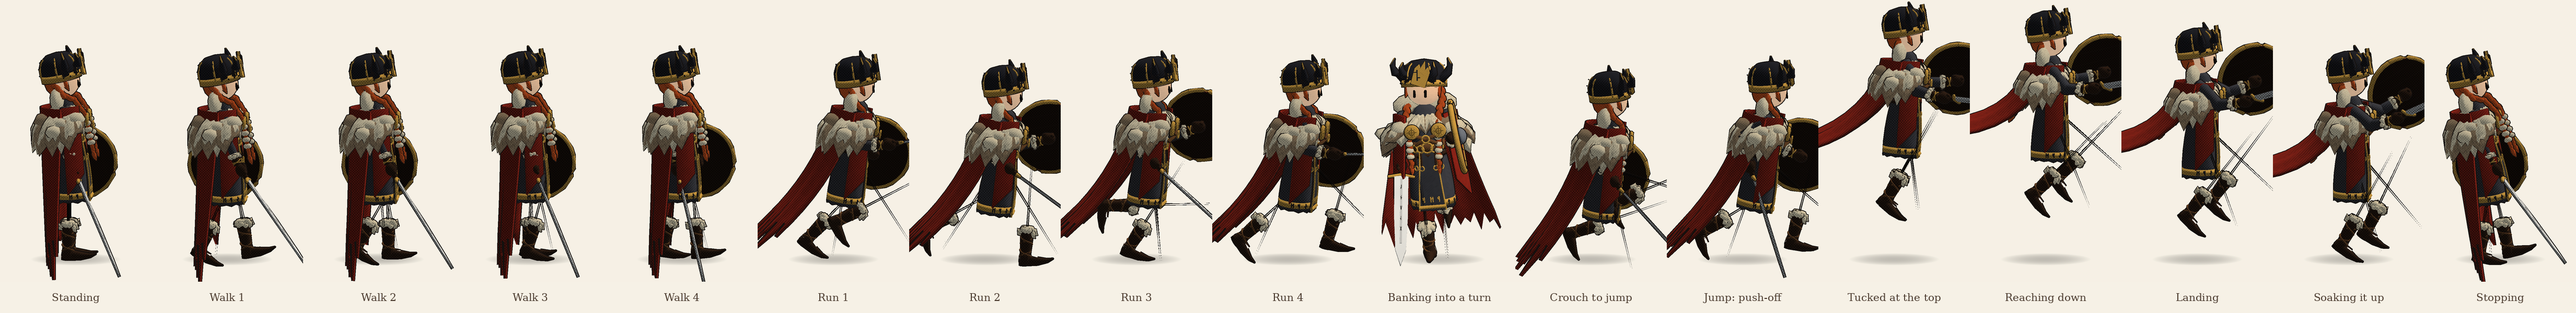
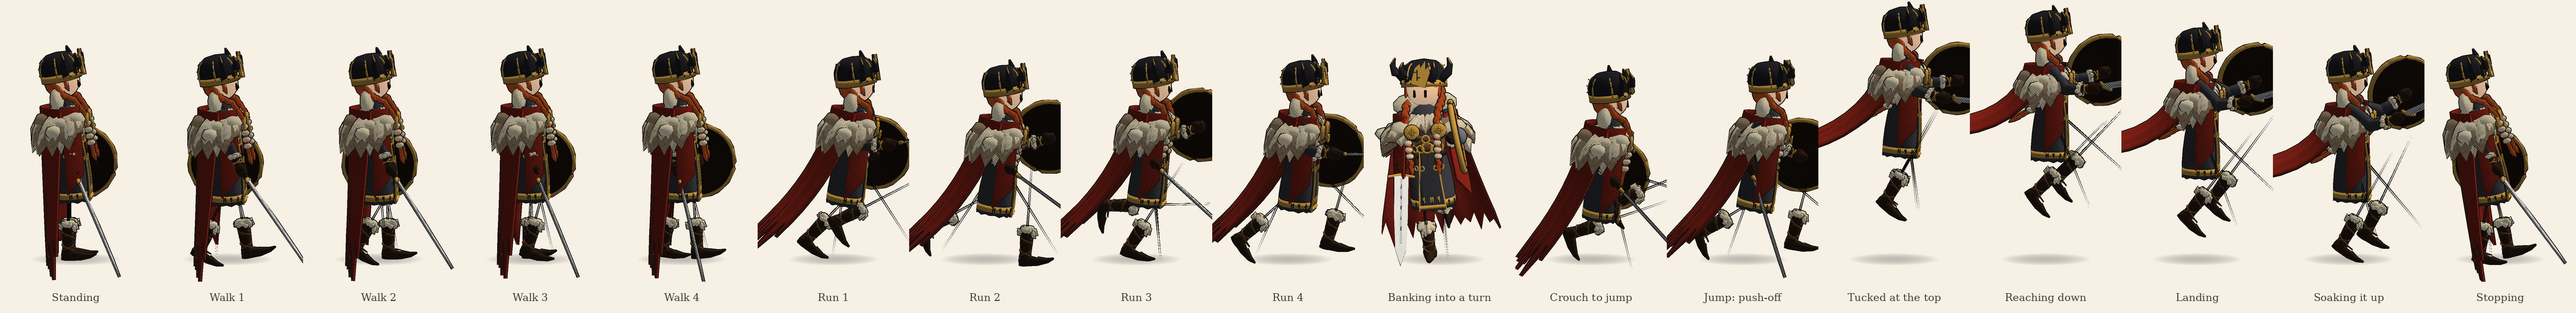
Braids bend like capes, curving from the head instead of swinging stiffly
Claude-Session: https://claude.ai/code/session_01SCdejJ1UF8RUxAkkFhZXGU

diff --git a/tools/preview/HeroPreview.cs b/tools/preview/HeroPreview.cs
@@ -16,7 +16,7 @@ public static class HeroPreview
         public Dictionary<string, Vector3> pos = new Dictionary<string, Vector3>();
         /// <summary>Joints whose world orientation is set directly (props held at an exact angle).</summary>
         public Dictionary<string, Quaternion> worldRot = new Dictionary<string, Quaternion>();
-        /// <summary>Capes bent by a swing (pitch, roll in degrees), as the game's ClothSway bends them.</summary>
+        /// <summary>Capes and braids bent by a swing (pitch, roll in degrees), as the game's ClothSway bends them.</summary>
         public Dictionary<string, Vector2> bend = new Dictionary<string, Vector2>();
     }
 
@@ -262,8 +262,8 @@ public static class HeroPreview
     static void MotionStrip(string rgbaPath, string labelPath, VikingModel model)
     {
         var springs = new Dictionary<string, SwingSpring>();
-        var capes = new HashSet<string>();
-        foreach (var sw in model.Swings) { springs[sw.joint] = SwingSpring.For(sw.kind); if (sw.kind == SwingKind.Cape) capes.Add(sw.joint); }
+        var bent = new HashSet<string>();
+        foreach (var sw in model.Swings) { springs[sw.joint] = SwingSpring.For(sw.kind); if (sw.kind != SwingKind.Banner) bent.Add(sw.joint); }
         var frames = new List<Shot>();
         var captures = new[] { 0.2f, 1.30f, 1.39f, 1.48f, 1.57f, 2.40f, 2.47f, 2.54f, 2.61f, 2.9f, 3.14f, 3.2f, 3.38f, 3.56f, 3.66f, 3.76f, 4.9f };
         var names = new[] { "Standing", "Walk 1", "Walk 2", "Walk 3", "Walk 4", "Run 1", "Run 2", "Run 3", "Run 4", "Banking into a turn",
@@ -300,9 +300,9 @@ public static class HeroPreview
             if (t >= captures[next])
             {
                 var pose = FromAnimator(anim.pose);
-                // Capes bend (as in the game), the rest swing stiffly.
+                // Capes and braids bend (as in the game), banners swing stiffly.
                 foreach (var kv in springs)
-                    if (capes.Contains(kv.Key)) pose.bend[kv.Key] = new Vector2(kv.Value.pitch, kv.Value.roll);
+                    if (bent.Contains(kv.Key)) pose.bend[kv.Key] = new Vector2(kv.Value.pitch, kv.Value.roll);
                     else pose.rot[kv.Key] = kv.Value.Rotation;
                 // (The jump is drawn at half height so the whole hero stays in the frame.)
                 pose.pos[Joints.Body] += new Vector3(0f, y * 0.5f, 0f);

diff --git a/OdinsCoin/Assets/Scripts/Characters/ClothSway.cs b/OdinsCoin/Assets/Scripts/Characters/ClothSway.cs
@@ -141,7 +141,7 @@ namespace OdinsCoin
             public Vector3 lastPos, lastVel;
             public bool primed;
             public float phase;
-            // A cape's meshes, bent rather than turned (see ClothBend); null for things that swing stiffly.
+            // A cape's or braid's meshes, bent rather than turned (see ClothBend); null for things that swing stiffly.
             public List<Bendable> bends;
             public float length;
         }
@@ -159,8 +159,9 @@ namespace OdinsCoin
         public void Add(Transform joint, SwingKind kind)
         {
             var e = new Entry { joint = joint, spring = SwingSpring.For(kind), phase = (made++) * 2.1f + joint.name.Length * 0.37f };
-            // Capes bend: keep each of their meshes' rest shape (in the joint's space: the pieces sit on it untransformed).
-            if (kind == SwingKind.Cape)
+            // Capes and braids bend: keep each of their meshes' rest shape (in the joint's space: the pieces sit on it
+            // untransformed). Banners stand out sideways from their pole, so they swing stiffly.
+            if (kind == SwingKind.Cape || kind == SwingKind.Braid)
             {
                 e.bends = new List<Bendable>();
                 foreach (var mf in joint.GetComponentsInChildren<MeshFilter>(true))

diff --git a/OdinsCoin/CHARACTERS.md b/OdinsCoin/CHARACTERS.md
@@ -103,7 +103,7 @@ Alt bygges i kode (ingen modellfiler trengs). `tools/preview/render.sh` tegner e
     - **Spydvakt:** knuten på skjoldet er malt med brede, lyse bånd med mørk kant, og pelskragen er bredere.
     - **Seer:** slankere og høyere, kjortelen faller rett ned, og fargen er skifergrå.
     - **Speider:** den grønne kappa er bredere over skuldrene, og pilene har smale, spisse fjær.
-- [x] **9. Bevegelse i plaggene:** (se [docs/motion.png](docs/motion.png)) kapper, skjørt, fletter, pels og vimpler svinger og henger etter når figuren går, snur og hugger (enkel fysikk med fjærer). Kapper bøyer seg i stedet for å svinge som en stiv planke: toppen blir liggende på skuldrene, og jo lenger ned, jo mer blafrer stoffet (`ClothBend`).
+- [x] **9. Bevegelse i plaggene:** (se [docs/motion.png](docs/motion.png)) kapper, skjørt, fletter, pels og vimpler svinger og henger etter når figuren går, snur og hugger (enkel fysikk med fjærer). Kapper og fletter bøyer seg i stedet for å svinge som en stiv planke: toppen blir liggende på skuldrene (eller ved hodet), og jo lenger ned, jo mer blafrer de (`ClothBend`).
 - [x] **10. Tegneserie-look på alt:** tusj-kanter på skipet, øyene, trærne, husene og havet, skravur med blyant eller tusj i skyggene, og papirkorn over hele bildet.
   - [x] Skravur i skyggene: shaderen `OdinsCoin/InkToon` (i `Resources/Shaders`) gir myk tegnet belysning med kalde skygger, enkle blyantstreker på skyggesiden og kryss-skravur i de mørkeste delene. Ansiktene får ingen skravur, så de holder seg rene. Den brukes på alt som ikke er blankt (havet beholder Lit). `InkStyle.cs` har samme matte, og forhåndsvisningen bruker den.
   - [x] Tusj-kanter på verdenen: shaderen `OdinsCoin/InkOutline` skyver et skall ut et fast antall skjermpiksler (tynnere på avstand), og `InkOutliner` gir alt massivt i InkToon en strek, også ting som dukker opp senere. Skroget og øyene får strek fra yttersiden, seil og bannere får ingen, og heltene har sine egne streker.
